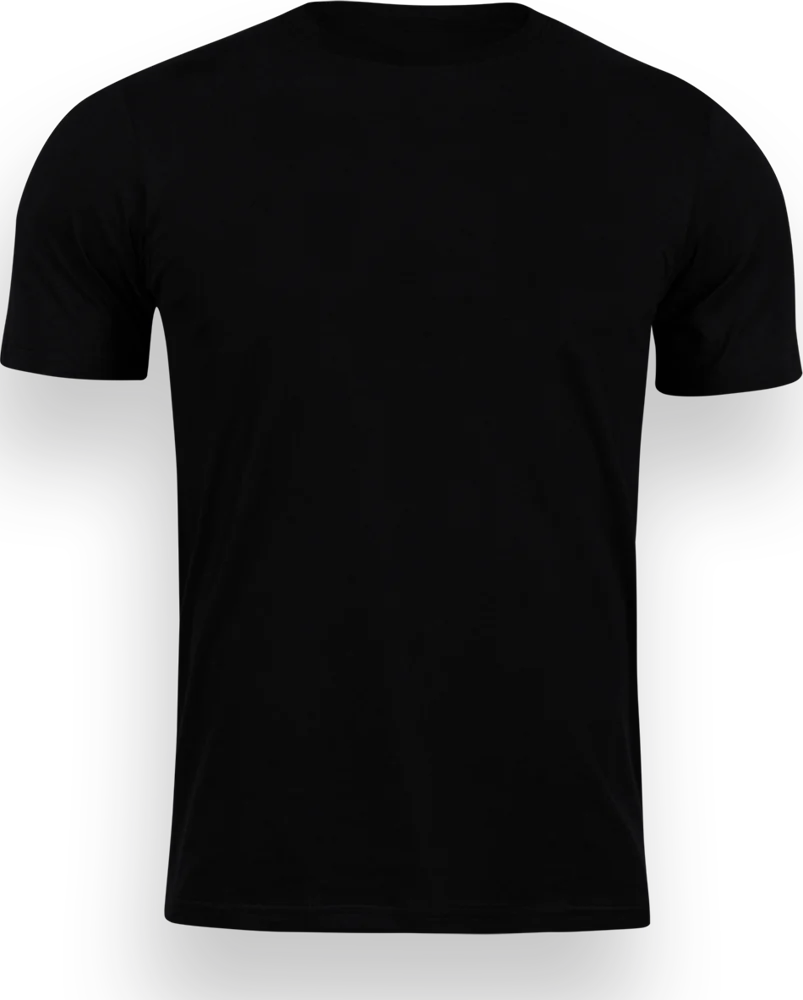
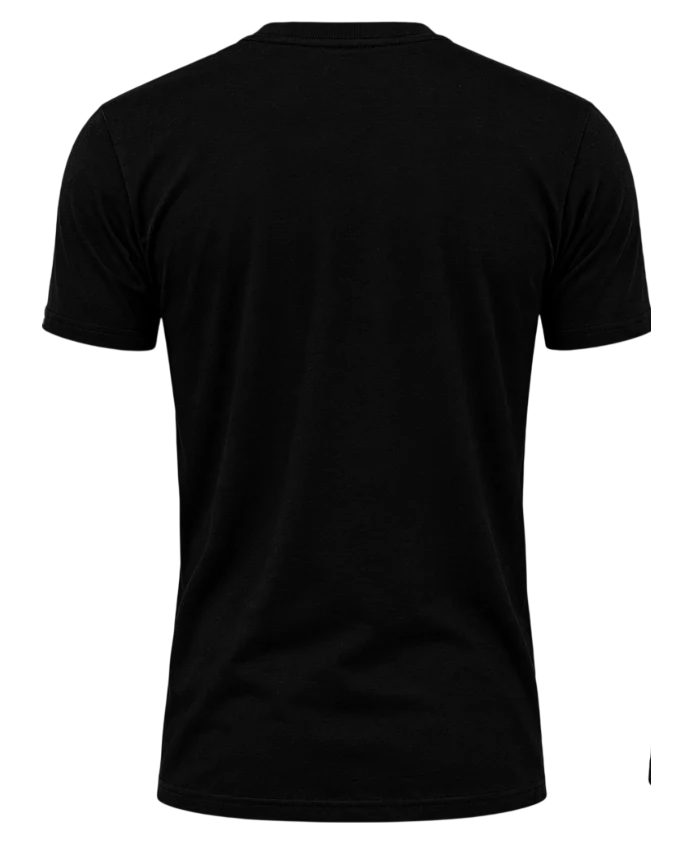
Shop: 360° drag-to-rotate tee from front, side and back views
Claude-Session: https://claude.ai/code/session_01DwTnJ3uQYZp3UhNFhAriPH

Changed region(s): [[0.0, 0.0, 1.0, 1.0], [0.9091, 0.8944, 0.9394, 0.9253]]

diff --git a/assets/js/main.js b/assets/js/main.js
@@ -328,41 +328,68 @@
     refresh();
   }
 
-  /* ---------- Shop: drag-to-spin shirt ---------- */
+  /* ---------- Shop: 360° drag-to-rotate shirt (front / side / back views) ---------- */
   document.querySelectorAll('[data-spin]').forEach(function (spin) {
-    var stage = spin.querySelector('[data-spin-stage]'), card = spin.querySelector('[data-spin-card]');
+    var stage = spin.querySelector('[data-spin-stage]'), view = spin.querySelector('[data-spin-view]');
+    var frames = [].slice.call(spin.querySelectorAll('.spin__frame')).sort(function (x, y) { return x.dataset.angle - y.dataset.angle; });
     var btns = spin.querySelectorAll('[data-face]');
-    var angle = -18, vel = 0, dragging = false, lastX = 0, lastT = 0, idleAt = 0, target = null;
+    var step = 360 / frames.length;
+    var angle = 0, vel = 0, dragging = false, lastX = 0, lastT = 0, idleAt = performance.now(), target = null;
+    function ease(t) { return t * t * (3 - 2 * t); }
     function render() {
-      card.style.transform = 'rotateY(' + angle + 'deg)';
-      var a = ((angle % 360) + 360) % 360, back = a > 90 && a < 270;
-      btns.forEach(function (b) { b.setAttribute('aria-pressed', (b.getAttribute('data-face') === '180') === back ? 'true' : 'false'); });
-      var edge = Math.abs(Math.cos(angle * Math.PI / 180));
-      spin.style.setProperty('--edge', edge.toFixed(3));
+      var a = ((angle % 360) + 360) % 360;
+      var k = Math.floor(a / step), t = (a - k * step) / step, n = (k + 1) % frames.length;
+      var e = ease(t);
+      // current view stays solid underneath; the next view fades in on top (no see-through midpoint)
+      frames.forEach(function (f, i) {
+        if (i === k) { f.style.opacity = '1'; f.style.zIndex = '1'; }
+        else if (i === n) { f.style.opacity = e.toFixed(3); f.style.zIndex = '2'; }
+        else { f.style.opacity = '0'; f.style.zIndex = '0'; }
+      });
+      // a light squeeze + drift mid-turn sells the rotation between views
+      var mid = Math.sin(t * Math.PI);
+      view.style.transform = 'scaleX(' + (1 - 0.08 * mid).toFixed(3) + ') translateX(' + (Math.sin((a / 360) * Math.PI * 2) * 1.2).toFixed(2) + '%)';
+      spin.style.setProperty('--edge', (1 - 0.35 * mid).toFixed(3));
+      var nearest = Math.round(a / step) % frames.length, face = frames[nearest].dataset.angle;
+      btns.forEach(function (b) {
+        var bf = b.getAttribute('data-face');
+        b.setAttribute('aria-pressed', (bf === face || (bf === '270' && face === '90')) ? 'true' : 'false');
+      });
     }
     stage.addEventListener('pointerdown', function (e) {
       dragging = true; target = null; vel = 0; lastX = e.clientX; lastT = performance.now();
-      stage.setPointerCapture(e.pointerId); spin.classList.add('is-dragging');
+      try { stage.setPointerCapture(e.pointerId); } catch (x) {}
+      spin.classList.add('is-dragging');
     });
     stage.addEventListener('pointermove', function (e) {
       if (!dragging) return;
       var now = performance.now(), dx = e.clientX - lastX;
-      angle += dx * 0.6; vel = dx * 0.6 / Math.max(16, now - lastT) * 16;
+      var perPx = 360 / Math.max(260, stage.clientWidth * 1.4);
+      angle += dx * perPx; vel = dx * perPx / Math.max(16, now - lastT) * 16;
       lastX = e.clientX; lastT = now; render();
     });
-    function end() { if (!dragging) return; dragging = false; idleAt = performance.now(); spin.classList.remove('is-dragging'); }
-    stage.addEventListener('pointerup', end); stage.addEventListener('pointercancel', end);
+    function end() {
+      if (!dragging) return; dragging = false; spin.classList.remove('is-dragging'); idleAt = performance.now();
+    }
+    stage.addEventListener('pointerup', end); stage.addEventListener('pointercancel', end); stage.addEventListener('lostpointercapture', end);
     btns.forEach(function (b) { b.addEventListener('click', function () {
       var f = parseInt(b.getAttribute('data-face'), 10);
-      var base = Math.round((angle - f) / 360) * 360; target = base + f; idleAt = performance.now();
+      target = Math.round((angle - f) / 360) * 360 + f; vel = 0; idleAt = performance.now();
     }); });
+    stage.addEventListener('keydown', function (e) {
+      if (e.key === 'ArrowRight') { target = Math.round(angle / step) * step + step; e.preventDefault(); }
+      if (e.key === 'ArrowLeft') { target = Math.round(angle / step) * step - step; e.preventDefault(); }
+      idleAt = performance.now();
+    });
+    stage.setAttribute('tabindex', '0'); stage.setAttribute('role', 'img');
+    stage.setAttribute('aria-label', 'Alhamdulillah Tee, 360° view. Drag, or use the arrow keys, to rotate.');
     var reduce = window.matchMedia && window.matchMedia('(prefers-reduced-motion: reduce)').matches;
     (function loop(now) {
       requestAnimationFrame(loop);
       if (dragging) return;
-      if (target !== null) { angle += (target - angle) * 0.12; if (Math.abs(target - angle) < 0.2) { angle = target; target = null; } render(); return; }
-      if (Math.abs(vel) > 0.05) { angle += vel; vel *= 0.94; render(); return; }
-      if (!reduce && now - idleAt > 2500) { angle += 0.25; render(); }
+      if (target !== null) { angle += (target - angle) * 0.1; if (Math.abs(target - angle) < 0.15) { angle = target; target = null; } render(); return; }
+      if (Math.abs(vel) > 0.03) { angle += vel; vel *= 0.95; render(); if (Math.abs(vel) <= 0.03) idleAt = now; return; }
+      if (!reduce && now - idleAt > 2500) { angle += 0.35; render(); }
     })(performance.now());
     render();
   });

diff --git a/shop/index.html b/shop/index.html
@@ -42,16 +42,19 @@
       <section class="product" aria-label="Alhamdulillah Tee">
         <div class="spin" data-spin>
           <div class="spin__stage" data-spin-stage>
-            <div class="spin__card" data-spin-card>
-              <img class="spin__face spin__front" src="/assets/img/shop/alhamdulillah-front.webp" alt="Alhamdulillah Tee, front: black tee with ‘alhamdulillah — ERRDAY · ALL SZN’ printed in silver across the chest" width="803" height="1000" draggable="false">
-              <img class="spin__face spin__back" src="/assets/img/shop/alhamdulillah-back.webp" alt="Alhamdulillah Tee, back: plain black" width="803" height="1000" draggable="false">
+            <div class="spin__view" data-spin-view>
+              <img class="spin__frame" data-angle="0" src="/assets/img/shop/alhamdulillah-front.webp" alt="Alhamdulillah Tee, front: black tee with ‘alhamdulillah — ERRDAY · ALL SZN’ printed in silver across the chest" width="693" height="843" draggable="false">
+              <img class="spin__frame" data-angle="90" src="/assets/img/shop/alhamdulillah-side-r.webp" alt="" aria-hidden="true" width="693" height="843" draggable="false">
+              <img class="spin__frame" data-angle="180" src="/assets/img/shop/alhamdulillah-back.webp" alt="Alhamdulillah Tee, back: plain black" width="693" height="843" draggable="false">
+              <img class="spin__frame" data-angle="270" src="/assets/img/shop/alhamdulillah-side.webp" alt="Alhamdulillah Tee, side view" width="693" height="843" draggable="false">
             </div>
             <div class="spin__shadow" aria-hidden="true"></div>
           </div>
           <div class="spin__bar">
-            <span class="spin__hint">Drag to turn</span>
+            <span class="spin__hint">Drag to rotate 360°</span>
             <div class="spin__btns">
               <button type="button" class="chip-btn" data-face="0" aria-pressed="true">Front</button>
+              <button type="button" class="chip-btn" data-face="270" aria-pressed="false">Side</button>
               <button type="button" class="chip-btn" data-face="180" aria-pressed="false">Back</button>
             </div>
           </div>

diff --git a/assets/css/style.css b/assets/css/style.css
@@ -613,3 +613,9 @@ body.build-open{overflow:hidden}
   .product__facts li{grid-template-columns:92px minmax(0,1fr);font-size:13px}
   .product__order{flex-basis:100%}
 }
+
+/* Spin v2: 360° turntable from front / side / back views */
+.spin__view{position:absolute;left:8%;right:8%;top:5%;bottom:9%;transform-origin:50% 60%;will-change:transform}
+.spin__frame{position:absolute;inset:0;width:100%;height:100%;object-fit:contain;opacity:0;pointer-events:none;filter:drop-shadow(0 18px 30px rgba(0,0,0,.55));will-change:opacity}
+.spin__frame:first-child{opacity:1}
+@media (max-width:600px){.spin__view{left:4%;right:4%}}
